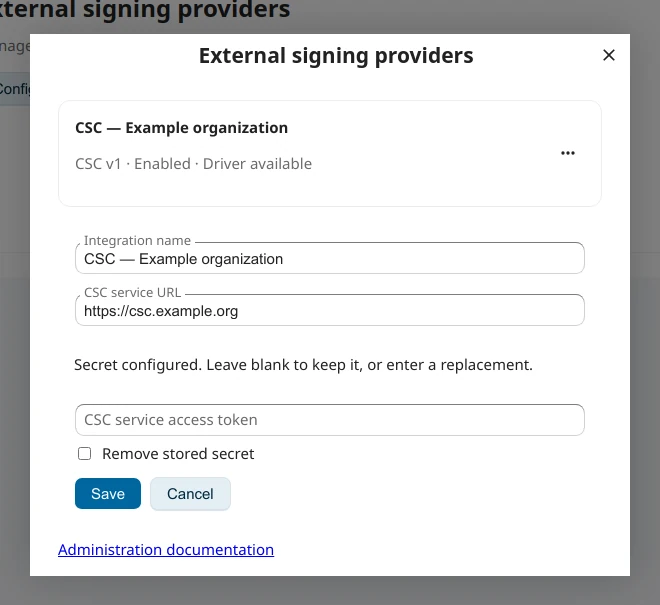
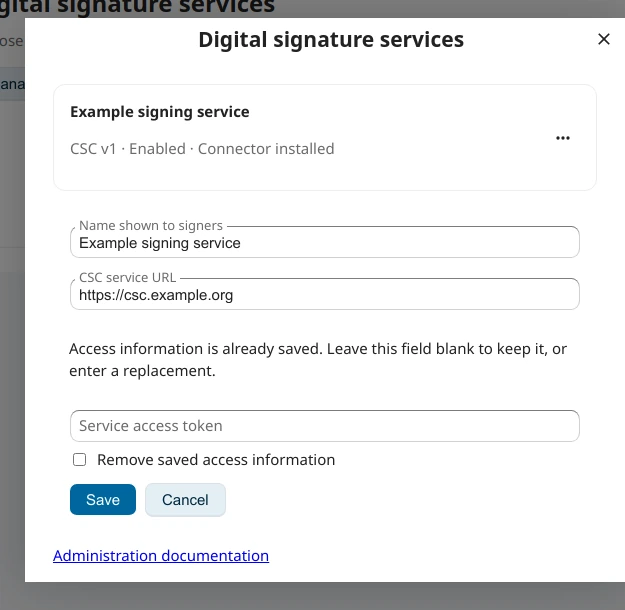
docs(csc): document safe management, mobile and current entry UI

diff --git a/docs/screenshots/pr-9665/README.md b/docs/screenshots/pr-9665/README.md
@@ -1,12 +1,14 @@
 <!-- SPDX-FileCopyrightText: 2026 LibreCode coop and contributors
 SPDX-License-Identifier: AGPL-3.0-or-later -->
 
-# CSC administration UI evidence — PR #9665
+# CSC administration UI review evidence
 
-Source: LibreSign/libresign PR #9665, code revision `0e6ba1926cfdbbe193018e4f43ba9ac3bdb0a8e6`.
+Vue CSC administration component source revision: `9dadf30e734bbb710b7261ee8b9c444af950cdd1`, LibreSign/libresign PR #9665, 2026-11-25.
 
-- `01`–`03`: real native policy card/CRUD/scope-selection screens captured in the disposable Nextcloud 36 environment on 2026-11-25. These policy-workbench screens were not modified by the latest CSC connection-form UX patch.
-- `04`–`09`: Chromium screenshots of the **actual Vue CSC administration components** at the revision above, running in an isolated Vite preview with Nextcloud Vue styles and synthetic catalog/adapter data. They are not screenshots of a signed-in production Nextcloud instance.
-- `09`: actual 390×844 browser viewport, not a stretched desktop image.
+- `01`–`03` are **historical Nextcloud 36 policy-workbench screenshots** captured before the latest plain-language change to the policy title. They illustrate the unchanged native list and rule-scope controls; the visible old title is **not** evidence of the current policy title. Never describe these as a screenshot of current copy.
+- `10` is the updated CSC administration component entry point, showing the current title and description.
+- `04`–`09` are fresh Chromium captures of the **actual updated Vue CSC administration components** from the revision above, in an isolated Vite fixture using Nextcloud Vue styles and synthetic catalog/adapter state. They are not full installed Nextcloud screens, real policy authorization proof or CSC provider transactions.
+- `09` uses a real browser viewport of 390x844, without stretching.
+- Saved access information is never revealed.
 
-No real provider credentials are displayed, and these images do not establish end-to-end CSC authorization.
+No production provider credentials were used.
